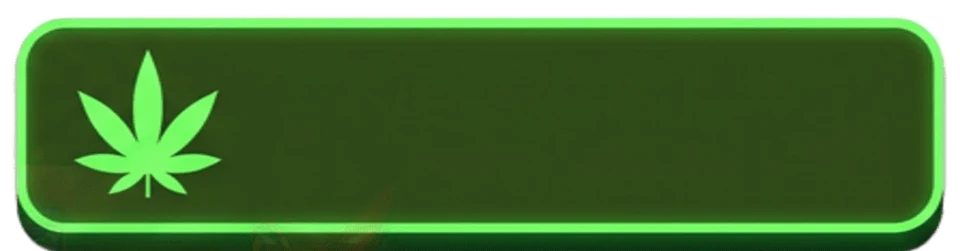
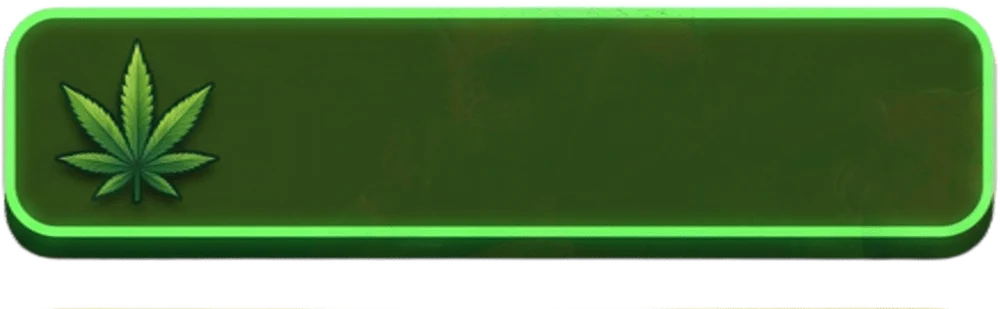
Update brand assets and styling for Jaguar House components
Replit-Commit-Author: Agent

diff --git a/artifacts/jaguar-house/src/app/globals.css b/artifacts/jaguar-house/src/app/globals.css
@@ -2461,6 +2461,86 @@ input.input, textarea.input, select.input { font-size: 16px; }
   .member-progress-actions p { max-width: none; }
 }
 
+/* Latest SPK campaign, lockup, card frames, and reward status artwork. */
+.jaguar-home--landing .landing-brand__logo {
+  flex-basis: clamp(80px, 24vw, 110px);
+  width: clamp(80px, 24vw, 110px);
+}
+.jaguar-home--landing .landing-brand__logo img {
+  object-fit: contain;
+}
+.member-heading-top img {
+  width: clamp(70px, 19vw, 96px);
+  max-height: 58px;
+  height: auto;
+  object-fit: contain;
+  border: 0;
+  border-radius: 0;
+  background: transparent;
+  box-shadow: none;
+  filter: drop-shadow(0 2px 7px rgba(0,255,157,.16));
+}
+.brand-showcase__campaign {
+  width: clamp(280px, 34vw, 400px);
+  height: auto;
+  aspect-ratio: auto;
+  object-fit: contain;
+  border: 0;
+  border-radius: 0;
+  background: transparent;
+  box-shadow: none;
+  filter: drop-shadow(0 10px 18px rgba(0,0,0,.42));
+}
+.member-pass-card__identity {
+  background-image: url("/brand/kratom-card-plaque.webp");
+}
+.member-pass-card[data-kind="cannabis"] .member-pass-card__identity {
+  background-image: url("/brand/cannabis-card-plaque.webp");
+}
+.member-pass-card__status {
+  width: min(47%, 138px);
+  min-height: 29px;
+  justify-content: center;
+  padding: 0 8px;
+  border: 0;
+  border-radius: 0;
+  background: url("/brand/member-status-collecting.webp") center / 100% 100% no-repeat;
+  color: #dbe3d6;
+  font-size: 7px;
+  letter-spacing: .035em;
+  text-shadow: 0 1px 4px rgba(0,0,0,.9);
+  box-shadow: none;
+}
+.member-pass-card__status.is-ready {
+  justify-content: flex-start;
+  padding-left: 27px;
+  background-image: url("/brand/member-status-ready.webp");
+  color: #f4df9b;
+  box-shadow: none;
+}
+@media (max-width: 760px) {
+  .brand-showcase__campaign {
+    width: min(calc(100vw - 70px), 320px);
+  }
+  .login-reference-root .brand-showcase__campaign {
+    width: min(calc(100vw - 70px), 320px);
+  }
+  .auth-register-root .brand-showcase__campaign {
+    width: min(calc(100vw - 82px), 304px);
+  }
+}
+@media (max-width: 390px) {
+  .jaguar-home--landing .landing-brand__logo {
+    flex-basis: 80px;
+    width: 80px;
+  }
+  .member-heading-top img { width: 70px; max-height: 46px; }
+  .member-pass-card__identity {
+    min-height: 48px;
+    padding-left: 59px;
+  }
+}
+
 /* SPK brand art, local landmark artwork, and club-specific foliage plaques. */
 .jaguar-home--landing .landing-brand__logo {
   display: block;
@@ -3330,4 +3410,133 @@ nav[aria-label="เมนูสมาชิก (มือถือ)"] > div { wi
   .member-pass-card__qr-code,
   .member-pass-card__qr-placeholder { width: 62px; height: 62px; }
   .member-progress-actions p { max-width: none; }
+}
+
+/* Final artwork overrides: campaign banner, city pass, club plaques, status labels. */
+.jaguar-home--landing .landing-brand__logo {
+  display: block;
+  flex: 0 0 clamp(80px, 24vw, 110px);
+  width: clamp(80px, 24vw, 110px);
+  height: auto;
+  overflow: visible;
+  border: 0;
+  border-radius: 0;
+  background: transparent;
+  box-shadow: none;
+}
+.jaguar-home--landing .landing-brand__logo img {
+  display: block;
+  width: 100%;
+  height: auto;
+  object-fit: contain;
+}
+.member-heading-top img {
+  width: clamp(70px, 19vw, 96px);
+  height: auto;
+  max-height: 58px;
+  object-fit: contain;
+  border: 0;
+  border-radius: 0;
+  background: transparent;
+  box-shadow: none;
+}
+.brand-showcase {
+  width: fit-content;
+  max-width: 100%;
+  height: auto;
+  min-height: 0;
+  margin-inline: auto;
+  padding: 4px 0;
+}
+.brand-showcase__campaign {
+  display: block;
+  width: clamp(280px, 34vw, 400px);
+  max-width: 100%;
+  height: auto;
+  aspect-ratio: auto;
+  object-fit: contain;
+  border: 0;
+  border-radius: 0;
+  background: transparent;
+  box-shadow: none;
+  filter: drop-shadow(0 10px 18px rgba(0,0,0,.42));
+}
+.login-reference-root .brand-showcase__campaign {
+  width: clamp(280px, 34vw, 400px);
+  height: auto;
+  aspect-ratio: auto;
+}
+.auth-register-root .brand-showcase__campaign {
+  width: clamp(270px, 32vw, 380px);
+  height: auto;
+  aspect-ratio: auto;
+}
+.member-pass-card__inner {
+  background:
+    linear-gradient(90deg,rgba(4,8,6,.76) 0%,rgba(4,8,6,.48) 52%,rgba(4,8,6,.72) 100%),
+    url("/brand/samut-prakan-card.webp") center 51% / cover no-repeat,
+    repeating-linear-gradient(135deg,transparent 0 18px,rgba(255,255,255,.012) 18px 19px),
+    linear-gradient(145deg,rgba(4,10,7,.28),rgba(5,8,6,.72));
+}
+.member-pass-card__identity {
+  width: min(100%,274px);
+  min-height: 52px;
+  flex: 0 1 auto;
+  gap: 0;
+  padding: 7px 10px 7px 66px;
+  border-radius: 9px;
+  background-position: center;
+  background-repeat: no-repeat;
+  background-size: 100% 100%;
+}
+.member-pass-card[data-kind="kratom"] .member-pass-card__identity {
+  background-image: url("/brand/kratom-card-plaque.webp");
+}
+.member-pass-card[data-kind="cannabis"] .member-pass-card__identity {
+  background-image: url("/brand/cannabis-card-plaque.webp");
+}
+.member-pass-card__identity > div { min-width: 0; }
+.member-pass-card__label,
+.member-pass-card__location { text-shadow: 0 1px 4px rgba(0,0,0,.85); }
+.member-pass-card__status {
+  width: min(47%,138px);
+  max-width: 138px;
+  min-height: 29px;
+  justify-content: center;
+  padding: 0 8px;
+  border: 0;
+  border-radius: 0;
+  background: url("/brand/member-status-collecting.webp") center / 100% 100% no-repeat;
+  color: #dbe3d6;
+  font-size: 7px;
+  letter-spacing: .035em;
+  text-shadow: 0 1px 4px rgba(0,0,0,.9);
+  box-shadow: none;
+}
+.member-pass-card__status.is-ready {
+  justify-content: flex-start;
+  padding-left: 27px;
+  background-image: url("/brand/member-status-ready.webp");
+  color: #f4df9b;
+  box-shadow: none;
+}
+@media (max-width: 760px) {
+  .brand-showcase__campaign,
+  .login-reference-root .brand-showcase__campaign {
+    width: min(calc(100vw - 70px),320px);
+  }
+  .auth-register-root .brand-showcase__campaign {
+    width: min(calc(100vw - 82px),304px);
+  }
+}
+@media (max-width: 390px) {
+  .jaguar-home--landing .landing-brand__logo {
+    flex-basis: 80px;
+    width: 80px;
+  }
+  .member-heading-top img { width: 70px; max-height: 46px; }
+  .member-pass-card__identity {
+    min-height: 48px;
+    padding-left: 59px;
+  }
 }

diff --git a/artifacts/jaguar-house/src/components/brand/welcome.tsx b/artifacts/jaguar-house/src/components/brand/welcome.tsx
@@ -20,7 +20,7 @@ export function Welcome({ initialTab }: { initialTab?: "login" | "register" }) {
         <header className="landing-header landing-enter landing-enter--header">
           <Link href="/" className="landing-brand" aria-label="JAGUAR SPK หน้าแรก">
             <span className="landing-brand__logo">
-              <Image src="/brand/jaguar-spk-emblem.webp" alt="JAGUAR SPK · Break All Limit" width={999} height={746} priority sizes="(max-width: 760px) 76px, 92px" />
+              <Image src="/brand/jaguar-spk-wordmark-final.webp" alt="JAGUAR SPK" width={1200} height={536} priority sizes="(max-width: 760px) 92px, 110px" />
             </span>
             <span className="landing-brand__copy"><small>KRATOM</small><small>BUN KHIRI SOI 6</small></span>
           </Link>
@@ -54,10 +54,10 @@ export function Welcome({ initialTab }: { initialTab?: "login" | "register" }) {
               </div>
               <div className="landing-members-club__art">
                 <Image
-                  src="/brand/jaguar-spk-promo.png"
-                  alt="ภาพโปรโมชัน Jaguar SPK พี่เสือและทีมงาน พร้อมเวลาเปิด 24 ชั่วโมง ราคาเริ่มต้น 50 บาท และพิกัดบุญคีรี ซอย 6"
-                  width={500}
-                  height={500}
+                  src="/brand/jaguar-spk-city-campaign.webp"
+                  alt="ภาพโปรโมชัน JAGUAR SPK กับพี่เสือ สะพานและแลนด์มาร์กสมุทรปราการ เปิด 24 ชั่วโมง เริ่มต้น 50 บาท"
+                  width={1400}
+                  height={1400}
                   priority
                   sizes="(max-width: 760px) 78vw, 430px"
                 />
@@ -165,10 +165,10 @@ export function Welcome({ initialTab }: { initialTab?: "login" | "register" }) {
             <BrandIcon name="cannabis" size={21} tone="emerald" className="brand-showcase__icon brand-showcase__cannabis" />
             <Image
               className="brand-showcase__campaign"
-              src="/brand/jaguar-spk-campaign-square.jpg"
-              alt="โปสเตอร์ JAGUAR SPK เปิด 24 ชั่วโมง ราคาเริ่มต้นขวดละ 50 บาท ที่บุญคีรี ซอย 6"
-              width={2048}
-              height={2048}
+              src="/brand/jaguar-login-plaque.webp"
+              alt="ป้ายตรา JAGUAR SPK พร้อมภาพพี่เสือ"
+              width={1026}
+              height={370}
               priority
               sizes="(max-width: 760px) 62vw, 310px"
             />

diff --git a/artifacts/jaguar-house/src/app/cannabis-card/page.tsx b/artifacts/jaguar-house/src/app/cannabis-card/page.tsx
@@ -76,7 +76,7 @@ export default function CannabisCardPage() {
       : cardQuery.isError || !card ? <div className="max-w-md mx-auto"><ErrorState message={errorText(cardQuery.error)} onRetry={() => void cardQuery.refetch()} retrying={cardQuery.isFetching} /></div>
       : <div className="cannabis-wrap">
         <header className="cannabis-heading rise">
-          <div className="member-heading-top"><div><p className="eyebrow">MEMBERS CLUB · DIGITAL PASS</p><h1>{card.display_name || "บัตรสมาชิกพลังใบ"}</h1><p>พี่เสือพลังใบ ซุปเปอร์ฮีโร่ของคนไทย</p></div><img src="/brand/jaguar-spk-emblem.webp" alt="ตรา JAGUAR SPK · Break All Limit" width={999} height={746} /></div>
+          <div className="member-heading-top"><div><p className="eyebrow">MEMBERS CLUB · DIGITAL PASS</p><h1>{card.display_name || "บัตรสมาชิกพลังใบ"}</h1><p>พี่เสือพลังใบ ซุปเปอร์ฮีโร่ของคนไทย</p></div><img src="/brand/jaguar-spk-wordmark-final.webp" alt="ตรา JAGUAR SPK" width={1200} height={536} /></div>
         </header>
         {confettiKey > 0 && <CannabisConfetti key={confettiKey} />}
         {celebrate && <div role="status" className="cannabis-ready cannabis-ready--celebrate">ครบ 10 แสตมป์ — แลกฟรี 1 กรัมได้ที่เคาน์เตอร์</div>}

diff --git a/artifacts/jaguar-house/src/app/card/page.tsx b/artifacts/jaguar-house/src/app/card/page.tsx
@@ -59,7 +59,7 @@ export default function CardPage() {
             <div><h1 className="font-display text-xl sm:text-2xl font-semibold mt-1">{card.data.display_name || "บัตรสมาชิกของฉัน"}</h1>
           <p className="mt-1 text-xs sm:text-sm text-[var(--muted)]">ระดับ {gradeFor(card.data.lifetime_earned)} · สมาชิก JAGUAR KRATOM</p>
             </div>
-            <img src="/brand/jaguar-spk-emblem.webp" alt="ตรา JAGUAR SPK · Break All Limit" width={999} height={746} />
+            <img src="/brand/jaguar-spk-wordmark-final.webp" alt="ตรา JAGUAR SPK" width={1200} height={536} />
           </div>
           <p className="member-slogan">พี่เสือพลังใบ ซุปเปอร์ฮีโร่ของคนไทย</p>
         </header>
